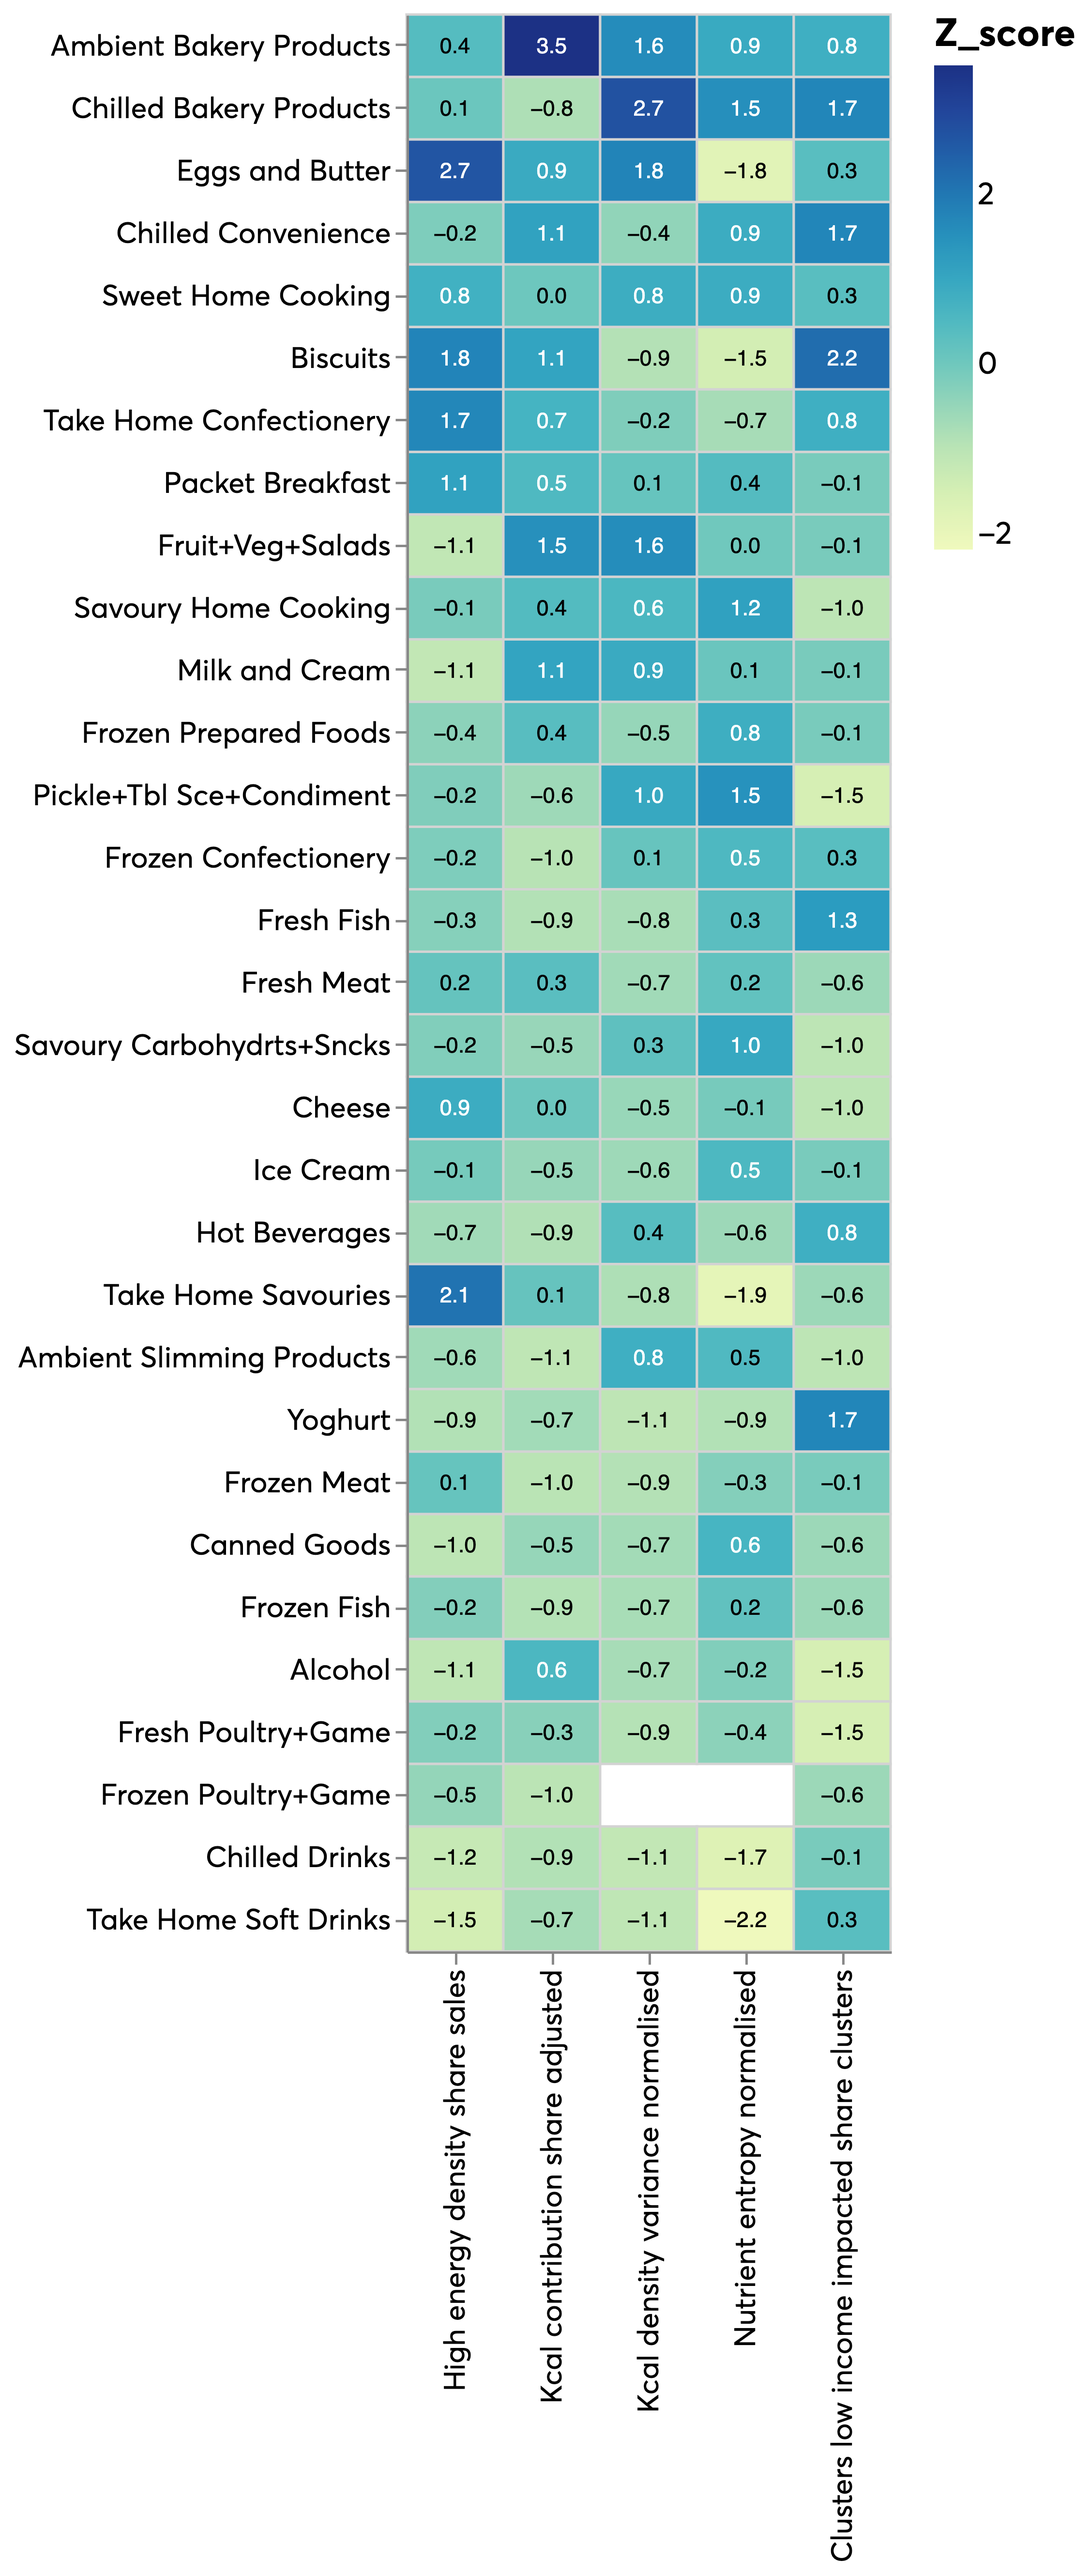
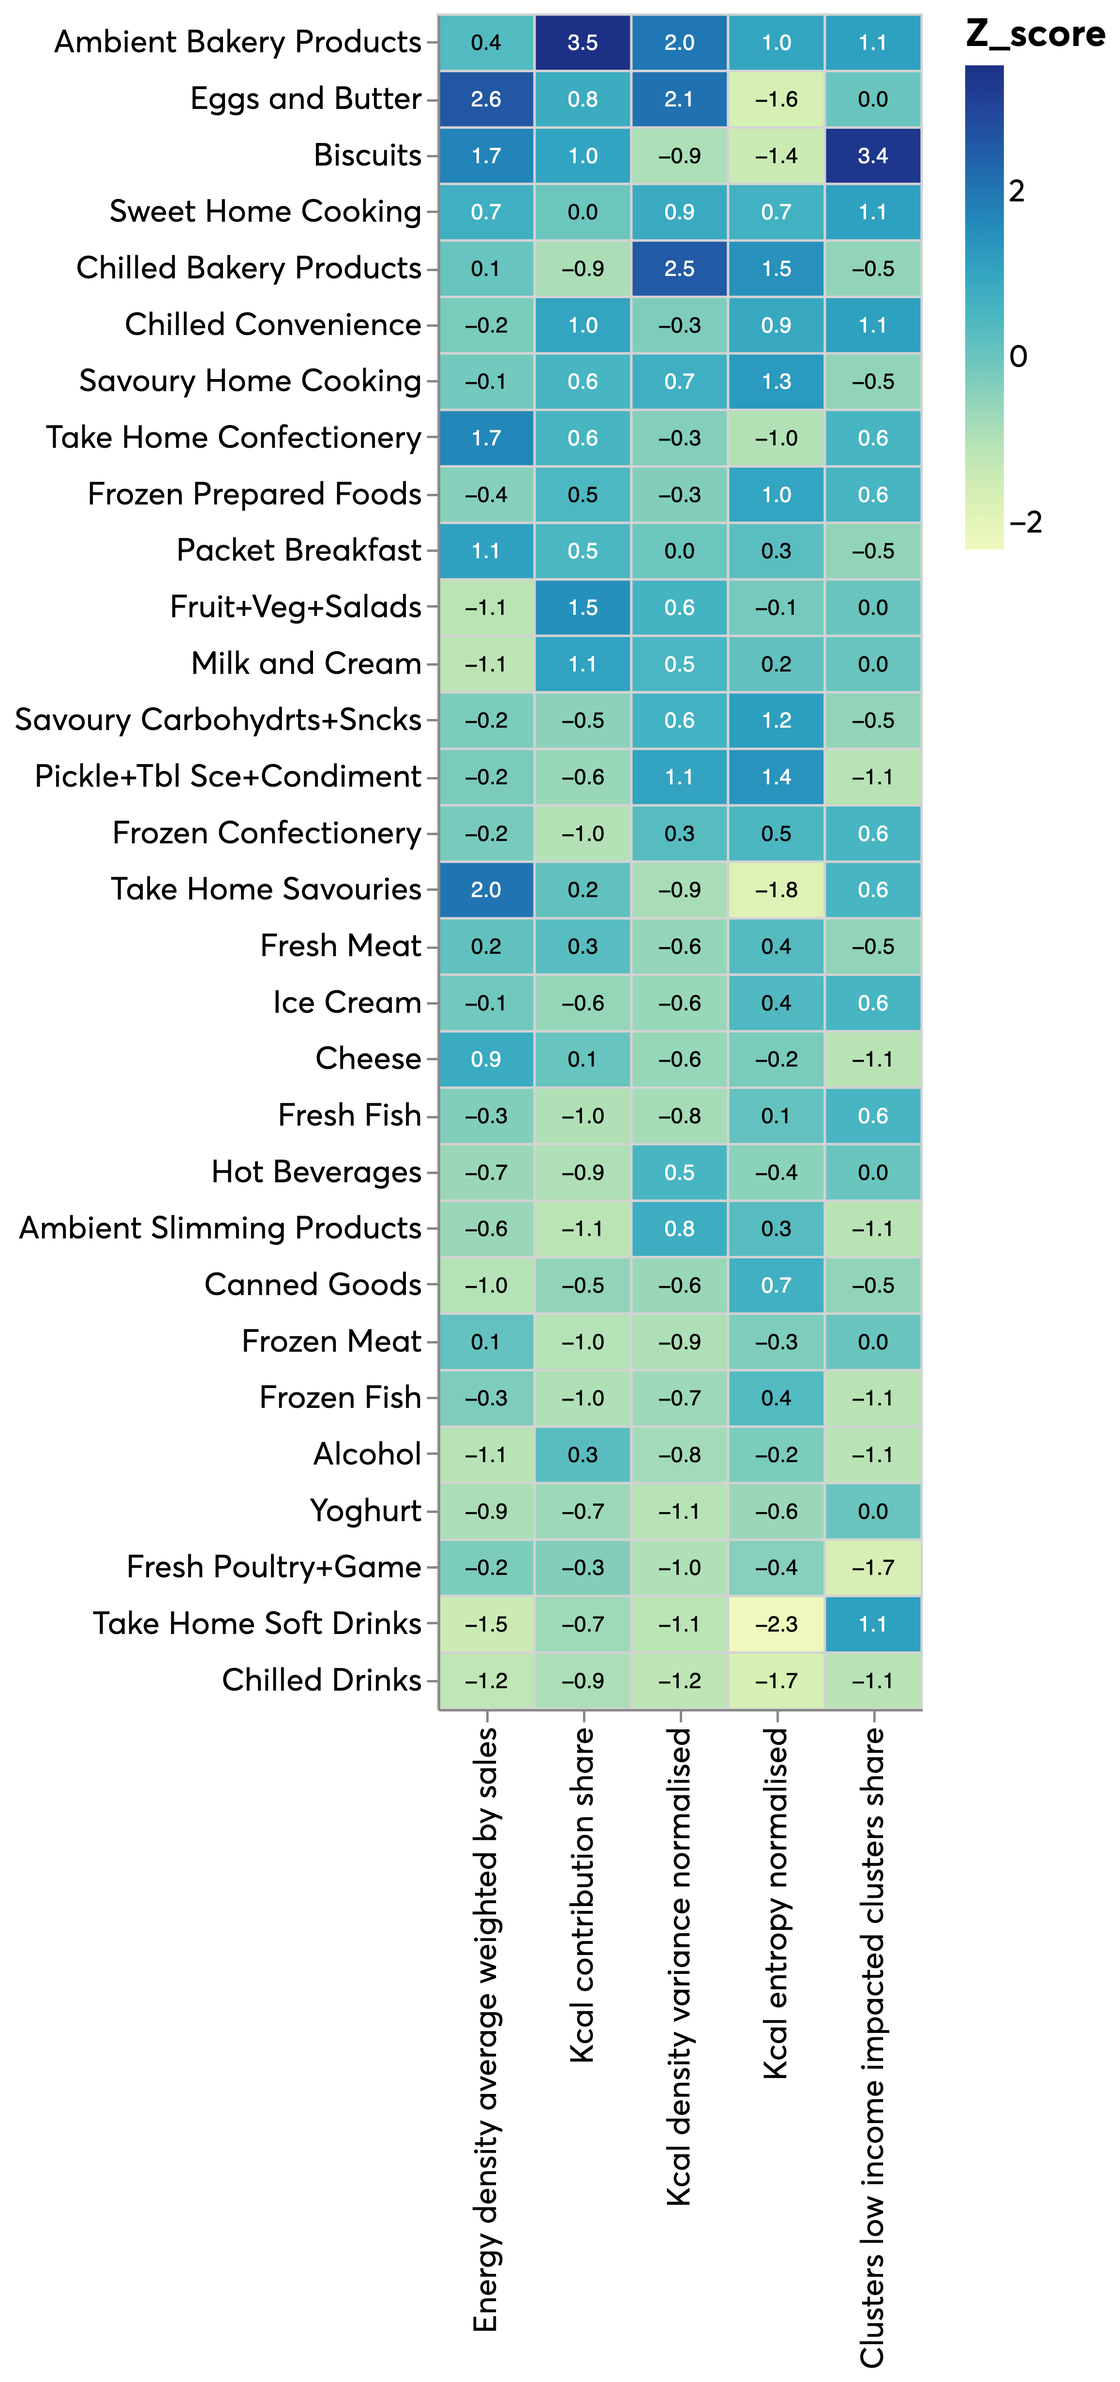
added readme

Changed region(s): [[0.0, 0.0, 0.9956, 0.9951]]

diff --git a/ahl_food_reformulation/analysis/decision_table_analysis/make_table_analysis.py b/ahl_food_reformulation/analysis/decision_table_analysis/make_table_analysis.py
@@ -21,26 +21,27 @@ from ahl_food_reformulation.utils.altair_save_utils import (
 
 
 clean_variable_names = {
-    "number_products": "number_products",
-    "kcal_100_s": "high_energy_density_share",
-    "kcal_100_w": "high_energy_density_share_sales",
+    # "number_products": "number_products",
+    "kcal_100_s": "energy_density_average",
+    "kcal_100_w": "energy_density_average_weighted_by_sales",
     "percent_high_ed": "high_energy_density_products_share",
-    "percent_high_ed_sales_weighted": "high_energy_density_products_share_sales",
-    "mean_kcal_size_adj_weighted": "mean_kcal_sales_adjusted",
-    "median_kcal_size_adj_weighted": "median_kcal_sales_adjusted",
+    "percent_high_ed_sales_weighted": "high_energy_density_products_share_weighted_by_sales",
+    "mean_kcal_size_adj_weighted": "mean_kcal_sales_adjusted_by_size",
+    "median_kcal_size_adj_weighted": "median_kcal_sales_adjusted_by_size",
     "IQR_kcal_size_adj_weighted": "interquartile_range_kcal",
     "percent_kcal_contrib_weighted": "kcal_contribution_share",
-    "percent_kcal_contrib_size_adj_weighted": "kcal_contribution_share_adjusted",
+    "percent_kcal_contrib_size_adj_weighted": "kcal_contribution_share_adjusted_by_size",
     "variance": "kcal_density_variance",
     "variance_size_adj": "kcal_density_variance_normalised",
-    "variance_adj_scaled": "kcal_density_variance_adjusted_normalised",
-    "entropy": "nutrient_entropy",
-    "entropy_size_adj": "nutrient_entropy_normalised",
-    "share_sh": "share_population_impacted",
-    "share_adj": "share_population_impacted_adjusted_clusters",
-    "cluster_no_sh": "clusters_impacted_share_clusters",
-    "cluster_low_sh": "clusters_low_income_impacted_share_clusters",
-    "cluster_low_adj": "clusters_impacted_adjusted_clusers",
+    # "variance_adj_scaled": "kcal_density_variance_adjusted_normalised",
+    "entropy": "kcal_entropy",
+    "entropy_size_adj": "kcal_entropy_normalised",
+    "share_sh": "share_population_impacted_clusters_share",
+    "share_adj": "share_population_impacted_clusters_volume",
+    "cluster_no_sh": "clusters_impacted_clusters_share",
+    "cluster_no_adj": "clusters_impacted_clusters_volume",
+    "cluster_low_sh": "clusters_low_income_impacted_clusters_share",
+    "cluster_low_adj": "clusters_low_income_impacted_clusters_volume",
 }
 
 var_order = list(clean_variable_names.values())
@@ -51,21 +52,21 @@ plotting_order = list(plotting_names.values())
 
 # We will focus on these variables after the correlation analysis
 selected_vars = [
-    "high_energy_density_share_sales",
-    "kcal_contribution_share_adjusted",
+    "energy_density_average_weighted_by_sales",
+    "kcal_contribution_share",
     "kcal_density_variance_normalised",
-    "nutrient_entropy_normalised",
-    "clusters_low_income_impacted_share_clusters",
+    "kcal_entropy_normalised",
+    "clusters_low_income_impacted_clusters_share",
 ]
 
 # Lookup between clean variable names and categories
 var_category_lookup = {
-    "high_energy_density_share_sales": "Impact on Diets",
-    "kcal_contribution_share_adjusted": "Impact on Diets",
+    "energy_density_average_weighted_by_sales": "Impact on Diets",
+    "kcal_contribution_share": "Impact on Diets",
     "kcal_density_variance_normalised": "Feasibility",
-    "nutrient_entropy_normalised": "Feasibility",
-    "clusters_impacted_share_clusters": "Inclusion",
-    "clusters_low_income_impacted_share_clusters": "Inclusion",
+    "kcal_entropy_normalised": "Feasibility",
+    "clusters_impacted_clusters_share": "Inclusion",
+    "clusters_low_income_impacted_clusters_share": "Inclusion",
 }
 
 # Functions
@@ -214,8 +215,8 @@ def make_detailed_recommendations(
     high_level_cats: list,
     detailed_table: pd.DataFrame,
     variables: list = [
-        "nutrient_entropy_normalised",
-        "kcal_contribution_share_adjusted",
+        "kcal_entropy_normalised",
+        "kcal_contribution_share",
     ],
     thresholds: list = [30, 5],
 ) -> pd.DataFrame:
@@ -305,8 +306,8 @@ if __name__ == "__main__":
             ),
             configure_plots,
         )
-        .configure_axis(labelLimit=1000, labelFontSize=12)
-        .properties(width=200, height=800)
+        .configure_axis(labelLimit=1000, labelFontSize=13)
+        .properties(width=200, height=700)
     )
 
     save_altair(indicator_heatmap, "indicator_heatmap", driver=webdr)

diff --git a/ahl_food_reformulation/analysis/README.md b/ahl_food_reformulation/analysis/README.md
@@ -45,3 +45,7 @@ Running the script `cluster_households.py` produces figures depicting the cluste
 Running the script `ahl_food_reformulation/analysis/clustering_outputs_analysis.py` reproduces the charts and analysis presented internally in July 2022 (charts are saved in `outputs/figures/png`).
 
 You can modify the script to adapt it to new clustering outputs. Perhaps the cleanest strategy to do that is to change the `kantar.panel_clusters` table with new outputs so that households are automatically tagged with them when you read demographic information with `kantar.demog_clean()`. Another option would be to assign clusters in the script itself.
+
+### Analysis of decision table
+
+Run the script `ahl_food_reformulation/analysis/decision_table_analysis/make_table_analysis.py` to reproduce the figures and tables used in the final report, which will be saved in the `outputs/figures/png` and `outputs/reports` folders.
